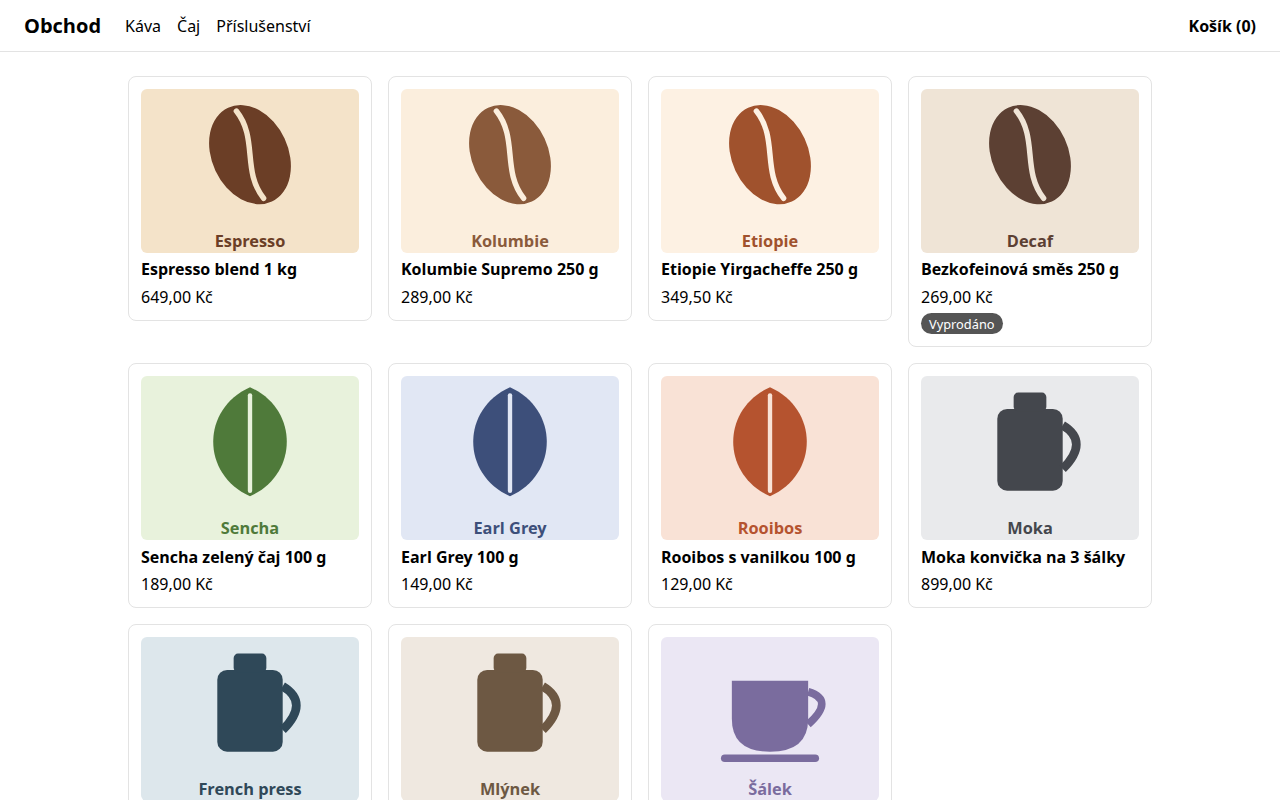
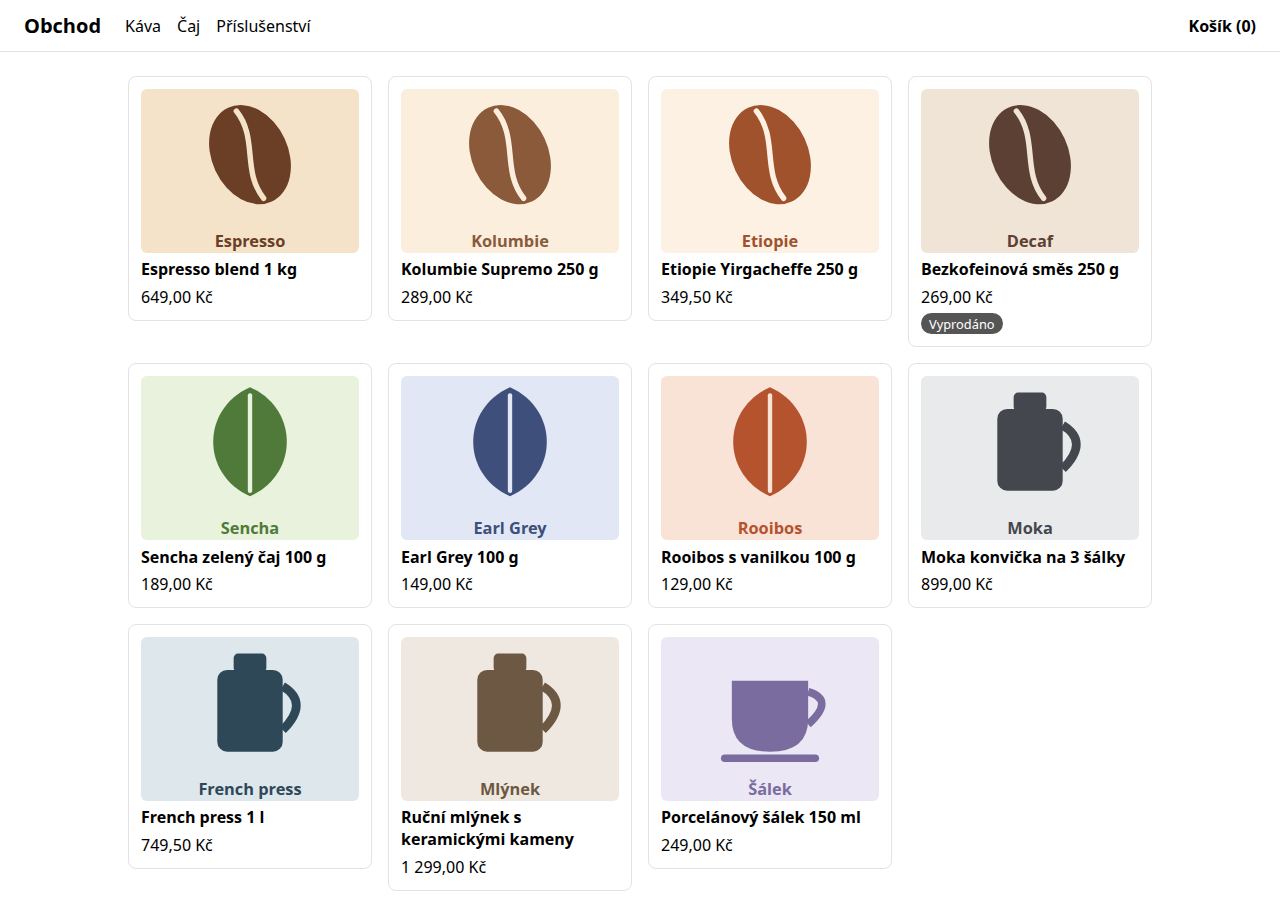
docs: describe replays, CI and how the screenshots were taken; retake two screenshots

diff --git a/README.md b/README.md
@@ -1,6 +1,6 @@
 # Shop React
 
-CI: `npm run check` on every push (`.github/workflows/ci.yml`).
+CI runs `npm run check` on pushes to main and on pull requests (`.github/workflows/ci.yml`).
 
 A React + TypeScript storefront for the coffee & tea shop from **laravel-shop**. It is the same
 shop with a second frontend: the catalogue, the stock, the prices, the quantity cap and the order
@@ -16,9 +16,9 @@ small; the storefront is in Czech, code, comments and docs are in English.
 |---|---|---|
 | ![Cart](docs/screenshots/cart.png) | ![Checkout](docs/screenshots/checkout-price-change.png) | ![Confirmation](docs/screenshots/confirmation.png) |
 
-The screenshots were taken in a real browser against the demo data of laravel-shop. The price
-notice in the checkout screenshot is real: the price of the product in the cart was changed on the
-server between adding it and submitting the order.
+The screenshots come from a throwaway Playwright script driving Chrome against the running API and
+the demo data of laravel-shop. The price notice in the checkout screenshot is the server's real 409
+answer; to get it, the script put a cart with an older price into `localStorage` before submitting.
 
 ## Stack
 
@@ -27,9 +27,9 @@ Vitest + Testing Library + MSW
 
 ## Running it
 
-The client needs the API, so start laravel-shop first. The API is on the `api-for-react-client`
-branch of laravel-shop – check that branch out and follow the quick start in that README
-(Docker and Sail; `./vendor/bin/sail up -d --wait`, then migrate and seed). The shop then listens on
+The client needs the API, so start laravel-shop first. The API lives in the `api-for-react-client`
+branch of laravel-shop, which is not merged or published yet – check that branch out and follow the
+quick start in that README (Docker and Sail; `./vendor/bin/sail up -d --wait`, then migrate and seed). The shop then listens on
 <http://localhost:8088>, and confirmation e-mails land in Mailpit once the queue is processed
 (`./vendor/bin/sail artisan queue:work`).
 
@@ -48,7 +48,7 @@ The dev server proxies `/api` to `http://localhost:8088`. If the API runs elsewh
 
 1. `tsc -p tsconfig.app.json --noEmit` and `tsc -p tsconfig.node.json --noEmit` – type check
 2. `eslint .`
-3. `vitest run` – component and unit tests with the API mocked by MSW (88 tests in 11 files at the time of writing)
+3. `vitest run` – component and unit tests with the API mocked by MSW
 4. `vite build`
 
 ## Architecture decisions
@@ -61,6 +61,8 @@ order (`POST /api/orders`). There is no server session, no cookie and no login.
 with the order. A retry after a timeout or a double click therefore yields one order: the server
 returns the existing order for the same token and the same items (HTTP 200 instead of 201). The same
 token with different items is refused (409 "already ordered"), and the client then renews the token.
+Because a 200 returns the order as it was first placed, the confirmation then says so and asks the
+customer to check the details in the confirmation e-mail – data edited before the retry are not applied.
 The token is renewed after an order is placed, so the next purchase is a new one.
 
 **A stale cart is corrected, not rejected silently.** If a price, availability or stock changed, the
@@ -73,8 +75,10 @@ wire format (snake_case) is mapped to client types in one place. Generating the 
 `product_id` as string and `image_url` as null – so the client validates responses with zod instead.
 
 **The form rules mirror the server for UX only.** The checkout schema repeats the server's
-`CheckoutRules` so most mistakes are caught before a request is sent, and it is deliberately looser
-where the two could disagree. The server's 422 is authoritative and is shown field by field.
+`CheckoutRules` so most mistakes are caught before a request is sent. The two can still differ at
+the edges: the client counts maximum lengths in UTF-16 units and the server in characters, so text
+full of emoji close to a limit may be judged differently. The server's 422 is authoritative and is
+shown field by field.
 
 **Prices are integer hellers** end to end; only the client formats them (`Intl.NumberFormat('cs-CZ')`).
 
@@ -86,8 +90,9 @@ where the two could disagree. The server's 422 is authoritative and is shown fie
 - **The order confirmation survives a reload only in the same tab** (`sessionStorage`). There is no
   order lookup in the API by design – its responses carry no personal data – so a new tab shows
   "we no longer see the order" and points to the confirmation e-mail.
-- **No end-to-end test suite.** The behaviour was walked through by hand in a real browser against
-  the running API (see the screenshots), but nothing re-runs that automatically.
+- **No end-to-end test suite.** The behaviour was walked through with a throwaway Playwright
+  script driving Chrome against the running API (the screenshots come from those runs); nothing
+  re-runs it automatically.
 - **Server-side limitations apply**, see "Known limitations" in the laravel-shop README: the hourly
   order limit (10 per IP) is not atomic, so a burst of parallel requests can overshoot it, and
   behind a reverse proxy `trustProxies` must be configured, otherwise the limit applies to the
